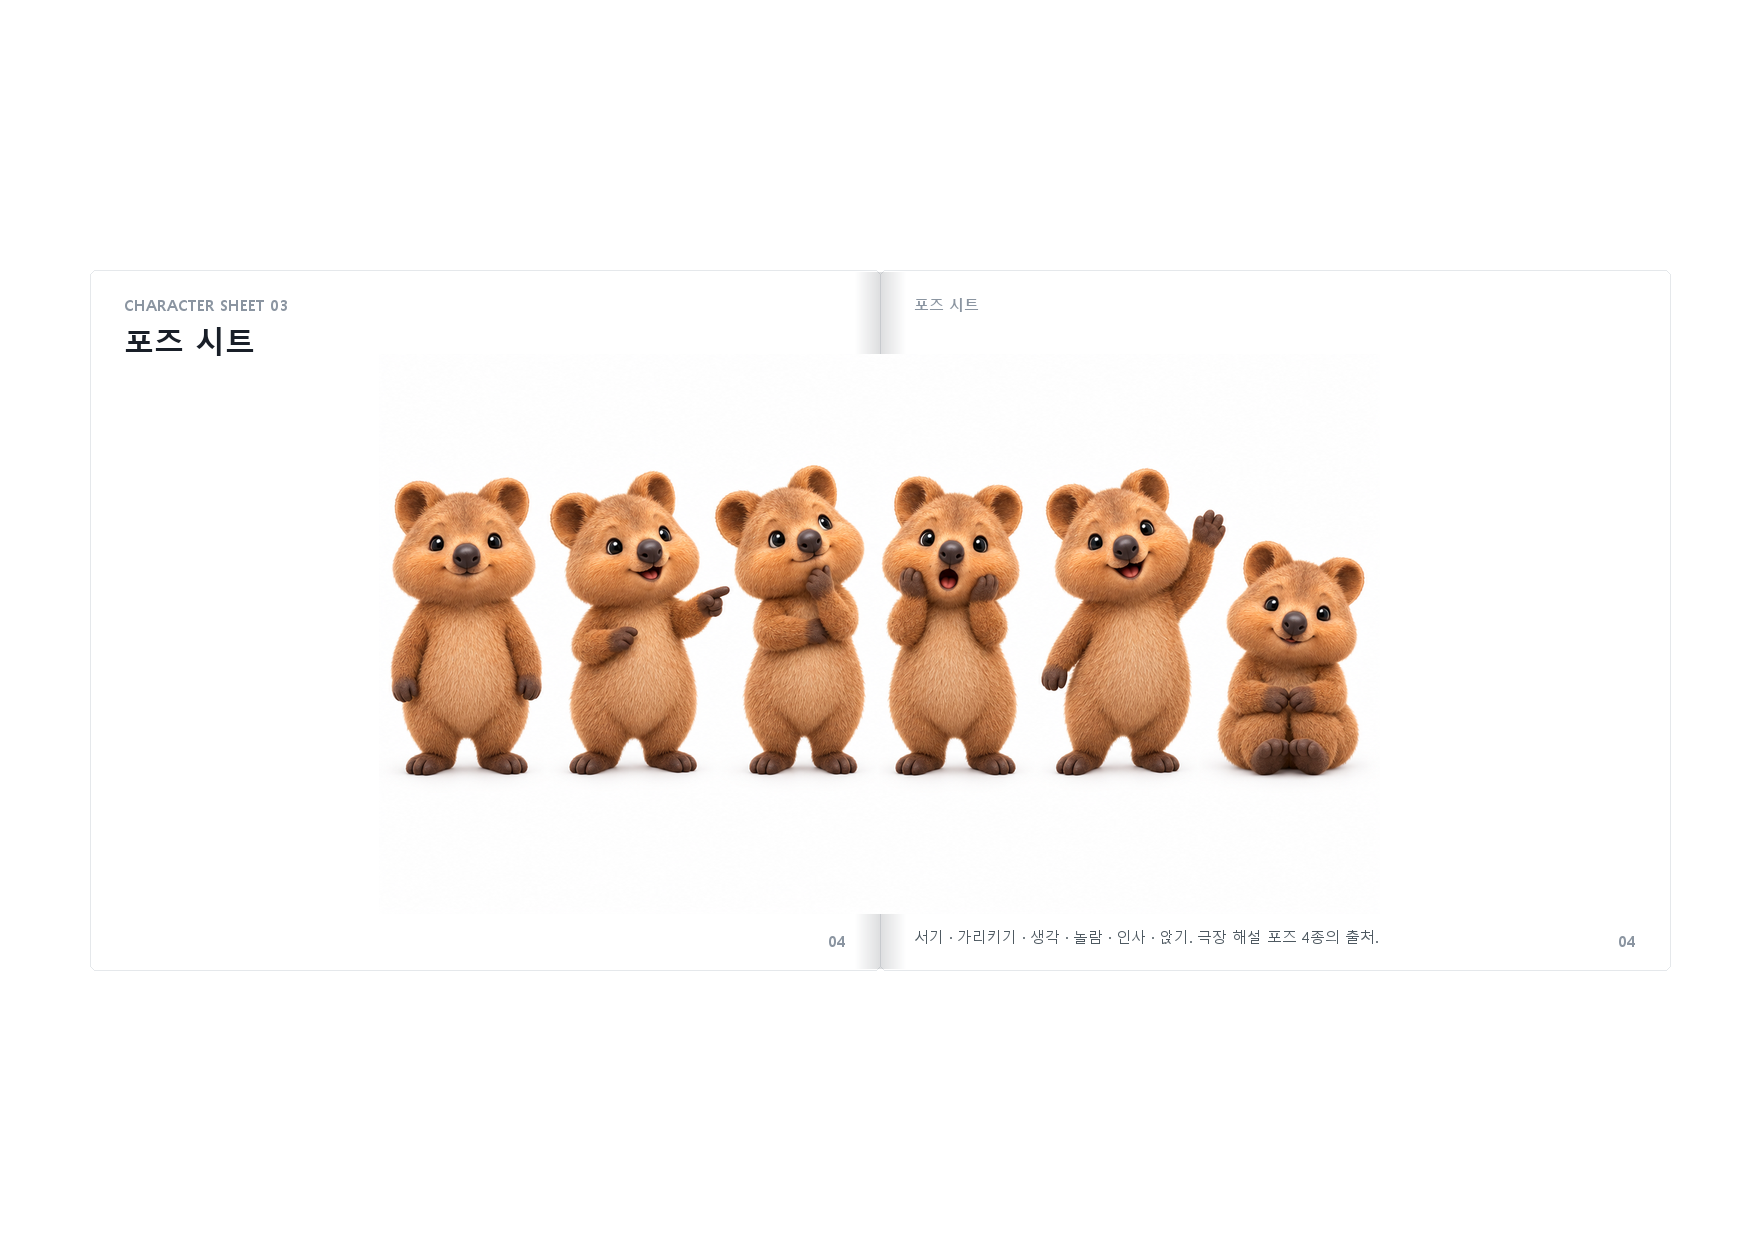
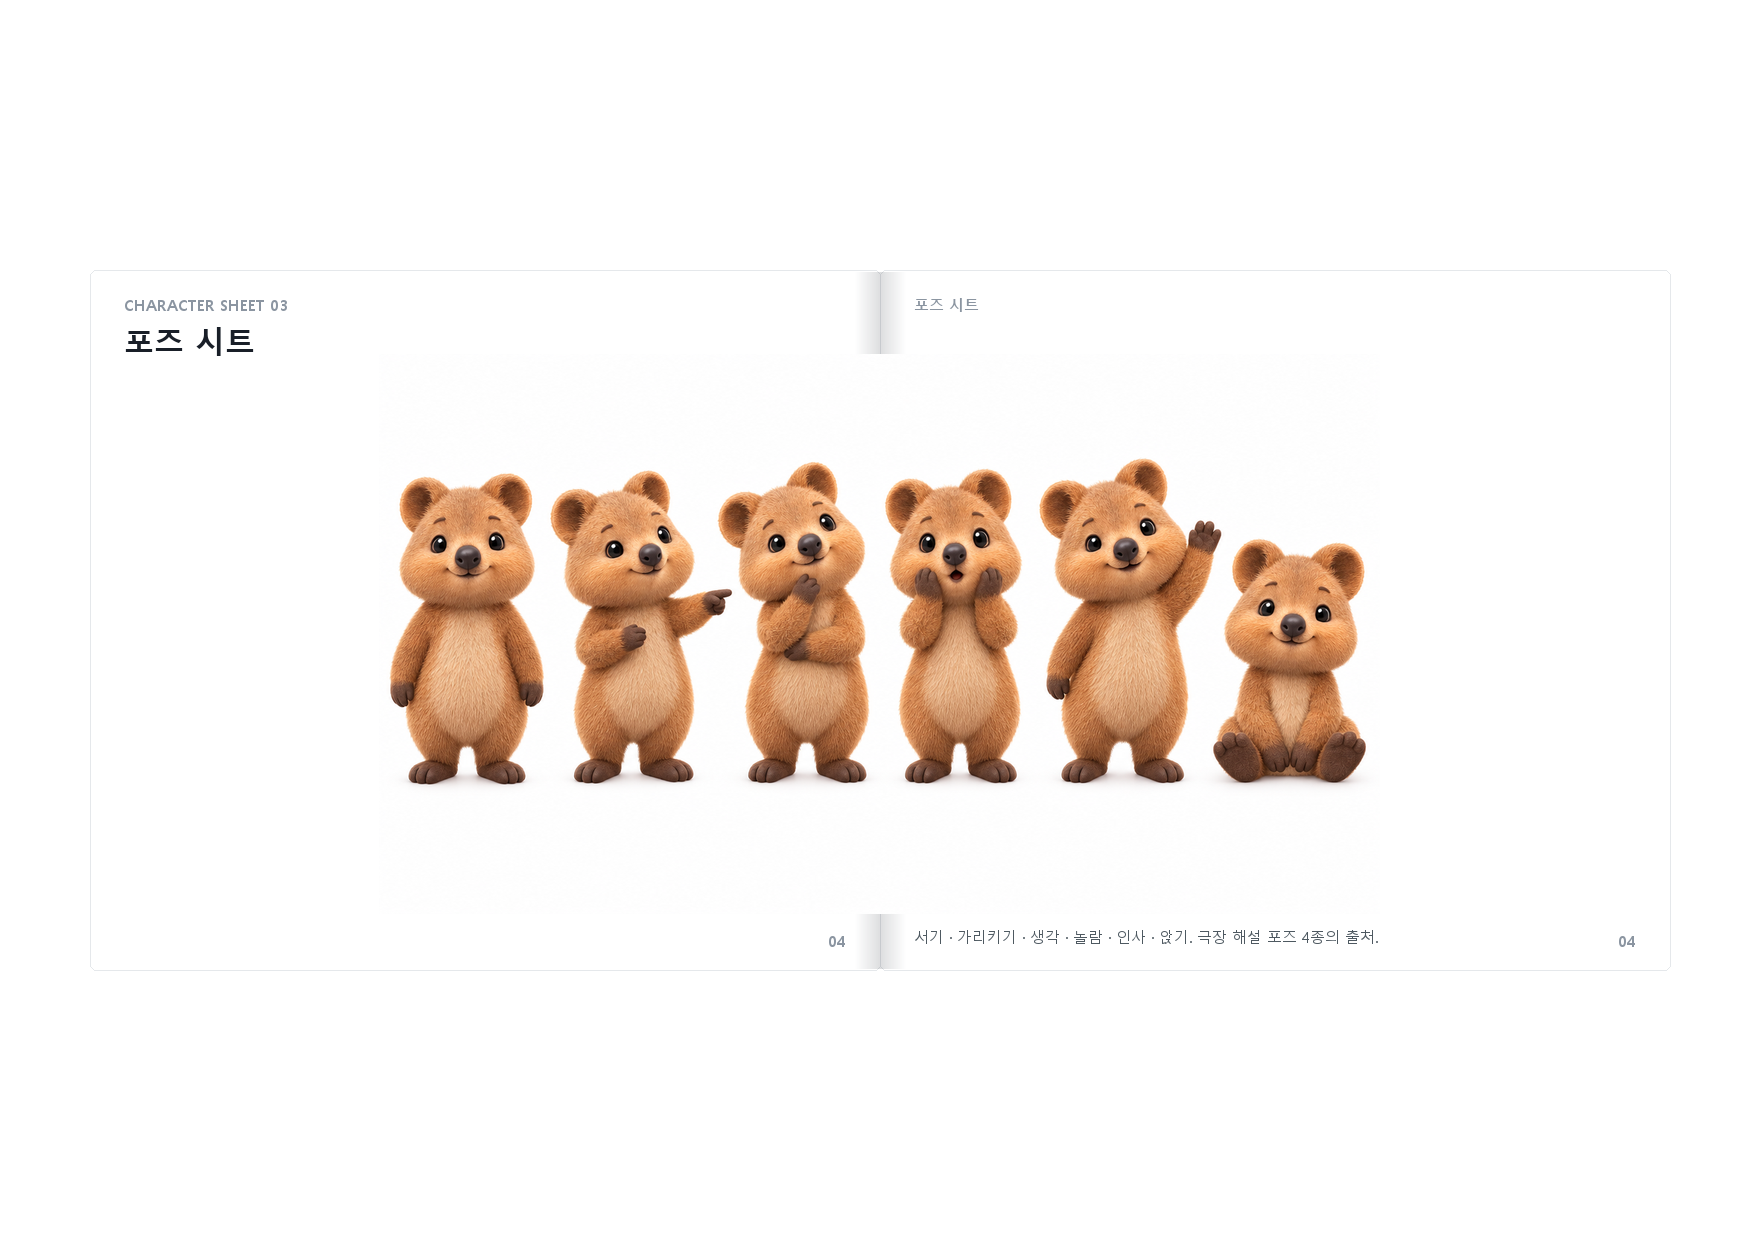
캐릭터 시트 v2(눈썹·팔 연결·얼굴 폭), 마스터 프롬프트 갱신, 1차 시트 보관

Changed region(s): [[0.2188, 0.3677, 0.7812, 0.6435]]

diff --git a/index.html b/index.html
@@ -595,7 +595,8 @@ button{font:inherit;letter-spacing:inherit}
     <div class="rgrid">
       <div class="rulecard ok"><h3><i>✓</i>항상 지킬 것</h3><ul>
         <li>앵커 이미지를 image_references로 첨부하고, 프롬프트 첫 문장은 마스터 프롬프트로 시작해요.</li>
-        <li>둥근 머리, 큰 검은 눈, 작은 검은 코, 짧은 주둥이, 작고 둥근 귀. 비율을 바꾸는 말은 넣지 않아요.</li>
+        <li>둥근 머리, 큰 검은 눈, 눈 위에 짧은 진갈색 눈썹 두 개, 작은 검은 코, 짧은 주둥이, 작고 둥근 귀. 비율을 바꾸는 말은 넣지 않아요.</li>
+        <li>팔은 어깨에서 이어진 한 덩어리로, 끝에 발이 붙어 있어요. 1차 시트처럼 발이 떨어져 나오면 다시 뽑아요.</li>
         <li>새 의상 세트는 키비주얼부터 뽑고, 포즈 4종은 그 키비주얼을 참조해 뽑아요.</li>
         <li>투명 배경 결과물은 PNG로 받아 여백을 잘라 세로 900px webp로 저장해요(극장 규격).</li>
         <li>모자·베레모·헤드폰은 허용. 낙엽은 "nothing on the head, no autumn leaf"로 막아요.</li>
@@ -1120,7 +1121,7 @@ function startIntro(){
 /* =====================================================================
    Below the book: prompt library, sample archive, copy + lightbox.
    ===================================================================== */
-const MASTER=`Exactly the same cute 3D quokka character as the reference image: keep the exact head shape and face proportions of the reference, do not widen or flatten the face, same eye size and spacing, same short snout, same small rounded ears, plush golden-brown fur with a lighter cream chest, small black nose, dark brown paws, nothing on the head, no autumn leaf.`;
+const MASTER=`Exactly the same cute 3D quokka character as the reference image: keep the exact head shape and face proportions of the reference, the head is not wider than the body, no puffed cheeks, same eye size and spacing, two small short dark-brown eyebrow strokes above the eyes, same short snout, same small rounded ears, plush golden-brown fur with a lighter cream chest, small black nose, arms are continuous plush limbs ending in small dark-brown paws firmly attached (never a detached paw blob), nothing on the head, no autumn leaf.`;
 const PROMPTS=[
  {t:'① 마스터 프롬프트 (모든 요청의 첫 문장)',meta:['공통 접두','앵커 첨부 필수'],body:MASTER,note:'이 문장을 먼저 쓰고 그 뒤에 의상·포즈·장면을 이어요. 얼굴 넓적하게 금지가 여기 들어 있어요.'},
  {t:'② 새 의상 키비주얼',meta:['2:3','medium','transparent','0.5cr'],body:MASTER+` New outfit, <스타일 한 줄, 예: Parisian autumn street style>: <상의>, <하의/겉옷>, <소품 1개>. Standing full body, friendly smile. Transparent background, no shadow, no text.`,note:'소품은 한 개만. 두 개 넘으면 손이 이상해져요. 결과는 PNG, 여백 트림, 세로 900px webp.'},
@@ -1128,7 +1129,7 @@ const PROMPTS=[
  {t:'④ 릴스·피드 장면 (배경 포함)',meta:['9:16 릴스 · 4:5 피드','high','1.5cr'],body:`Vertical 9:16 Instagram reel scene. `+MASTER+` The quokka <옷차림> <동작/상황>. Background: <장소, 시간대, 빛, 소품 2~3개>. Cinematic 3D animation render, soft lighting, vibrant but tasteful colors. No text, no letters, no watermark.`,note:'글자는 넣지 않고 편집 때 얹어요. 함께 나오는 캐릭터는 "a small friendly <동물> character with <특징>"처럼 한 문장으로.'},
  {t:'⑤ 한국 명절 장면',meta:['9:16','high','한국 요소 고정'],body:`Vertical 9:16 Korean Lunar New Year (Seollal) scene set in KOREA. `+MASTER+` The quokka wears a Korean hanbok: <저고리 색> jeogori with white dongjeong collar and <고름 색> goreum ribbon, <치마/바지>. Background: traditional Korean hanok with dark grey giwa roof tiles, hanji paper lattice doors, blue-and-red cheongsa-chorong Korean lanterns, <떡국 | 복주머니 | 윷 | 방패연 with taegeuk | 솟대 | 소나무 설경>. Strictly NO red Chinese paper lanterns, NO Chinese knots, NO Chinese-style upturned golden eaves, NO Chinese calligraphy, NO text, NO watermark.`,note:'첫 버전은 홍등·금박 처마가 섞여 중국풍이 됐어요. 금지 문장을 끝까지 붙여야 해요.'},
  {t:'⑥ 시퀀스(연속 장면) 프레임',meta:['9:16','high','참조 = 앞 장면 job_id + 앵커'],body:`Frame <N> of <total> of a <동작> animation sequence. Use the FIRST reference image as the exact scene: same room, same props, same camera angle, same framing, same light. Same characters in the same clothes: <의상 요약>. Keep the exact head shape and face proportions of the quokka from the second reference, do not widen or flatten the face, same eye size and spacing, same short snout, same small rounded ears, nothing on the head, no autumn leaf. ACTION: <이 프레임의 동작 한 문장>. Vertical 9:16, cozy 3D animation render. No text, no watermark.`,note:'앞 장면의 <em>job_id</em>를 첫 번째 참조로, 앵커를 두 번째 참조로 넣어요. 영상으로 이을 때 배경이 안 바뀌어요.'},
- {t:'⑦ 캐릭터 시트 · 턴어라운드',meta:['16:9','high','opaque'],body:`Character turnaround model sheet, four consistent full-body views in a row, front view, 3/4 view, side profile, and back view, evenly spaced, identical original character on all views, pure white seamless studio background, professional character sheet presentation. The character is exactly the cute 3D quokka from the reference image: round head, large dark glossy eyes with soft catchlights, small black nose, gentle closed-mouth smile, short rounded ears, plush golden-brown fur with a lighter cream chest and belly, chubby body with short arms, dark brown paws, standing upright on two feet, no clothes, no accessories, nothing on the head, no autumn leaf. Stylized 3D character render, soft global illumination, three-point studio lighting, gentle rim light, high-end 3D animation studio quality, 4K. No text, no watermark, no logos, no frame borders, no props.`,note:'표정 시트는 첫 문장을 "Character expression sheet, one full-body reference standing on the left and a 3x2 grid of head-and-shoulders portraits…"로, 포즈 시트는 "Character pose sheet, the same character shown full-body in six poses side by side…"로 바꿔요.'},
+ {t:'⑦ 캐릭터 시트 · 턴어라운드',meta:['16:9','high','opaque'],body:`Character turnaround model sheet, four consistent full-body views in a row, front view, 3/4 view, side profile, and back view, evenly spaced, identical original character on all views, pure white seamless studio background, professional character sheet presentation. The character is the cute 3D quokka from the reference image with these exact rules: keep the exact head shape of the reference but the head must NOT be wider than the body, no puffed cheeks, compact face; large dark glossy eyes with soft catchlights, same eye size and spacing as the reference; TWO small short dark-brown eyebrow strokes above the eyes (clearly visible, thin, gently arched); small black nose, short snout, gentle closed-mouth smile; small rounded ears; plush golden-brown fur with a lighter cream chest and belly; chubby body; the arms are continuous plush limbs growing from the shoulders and ending in small dark-brown paws, each paw firmly attached to the end of its arm, never a detached paw blob, never a gap between arm and paw; dark brown feet; standing upright on two feet; no clothes, no accessories, nothing on the head, no autumn leaf. Stylized 3D character render, soft global illumination, three-point studio lighting, gentle rim light, high-end 3D animation studio quality, 4K. No text, no watermark, no logos, no frame borders, no props.`,note:'표정 시트는 첫 문장을 "Character expression sheet, one full-body reference standing on the left and a 3x2 grid of head-and-shoulders portraits…"로, 포즈 시트는 "Character pose sheet, the same character shown full-body in six poses side by side…"로 바꿔요.'},
  {t:'⑧ 힉스필드 MCP 호출 예시',meta:['generate_image_batch','JSON'],body:`{
   "model": "gpt_image_2_5",
   "quality": "medium",            // 장면·시트는 "high"
@@ -1156,7 +1157,7 @@ function renderGallery(){
     theater.push({file:k.file,name:k.name+' · 기본',group:g});
     for(const p of (k.poses||[]))theater.push({file:p.file,name:k.name+' · '+p.name,group:g});
   }
-  const all=[...SHEETS,...DATA.paris,...NEWYEAR,...(DATA.sebae||[]),...(DATA.newyear_v1||[]),...theater,...(DATA.common||[]),...(DATA.info||[])];
+  const all=[...SHEETS,...DATA.paris,...NEWYEAR,...(DATA.sebae||[]),...(DATA.newyear_v1||[]),...(DATA.sheets_v1||[]),...theater,...(DATA.common||[]),...(DATA.info||[])];
   const groups=['전체',...new Set(all.map(x=>x.group))];
   $('#chips').innerHTML=groups.map(g=>`<button class="chip ${g===filter?'on':''}" data-g="${g}">${g}</button>`).join('');
   const list=filter==='전체'?all:all.filter(x=>x.group===filter);

diff --git a/tools/plates.py b/tools/plates.py
@@ -103,7 +103,7 @@ for k, v in rows:
     d.text((x, y), k, font=f(16, True), fill=MUTED); d.text((x + 120, y), v, font=f(17), fill=INK); y += 36
     d.line((x, y - 6, BX1 - 48, y - 6), fill=LINE)
 y += 14; px = x
-for t, fg, bg in (("낙엽 없음", RED, REDBG), ("얼굴 폭 고정", RED, REDBG), ("눈 간격 고정", GREEN, GREENBG), ("골든 브라운", GREEN, GREENBG)):
+for t, fg, bg in (("눈썹 있음", GREEN, GREENBG), ("팔·발 연결", GREEN, GREENBG), ("얼굴 폭 고정", RED, REDBG), ("눈 간격 고정", GREEN, GREENBG), ("골든 브라운", GREEN, GREENBG)):
     px = pill(d, px, y, t, fg, bg, f(15, True))
 save(im, 1, "cover")
 
